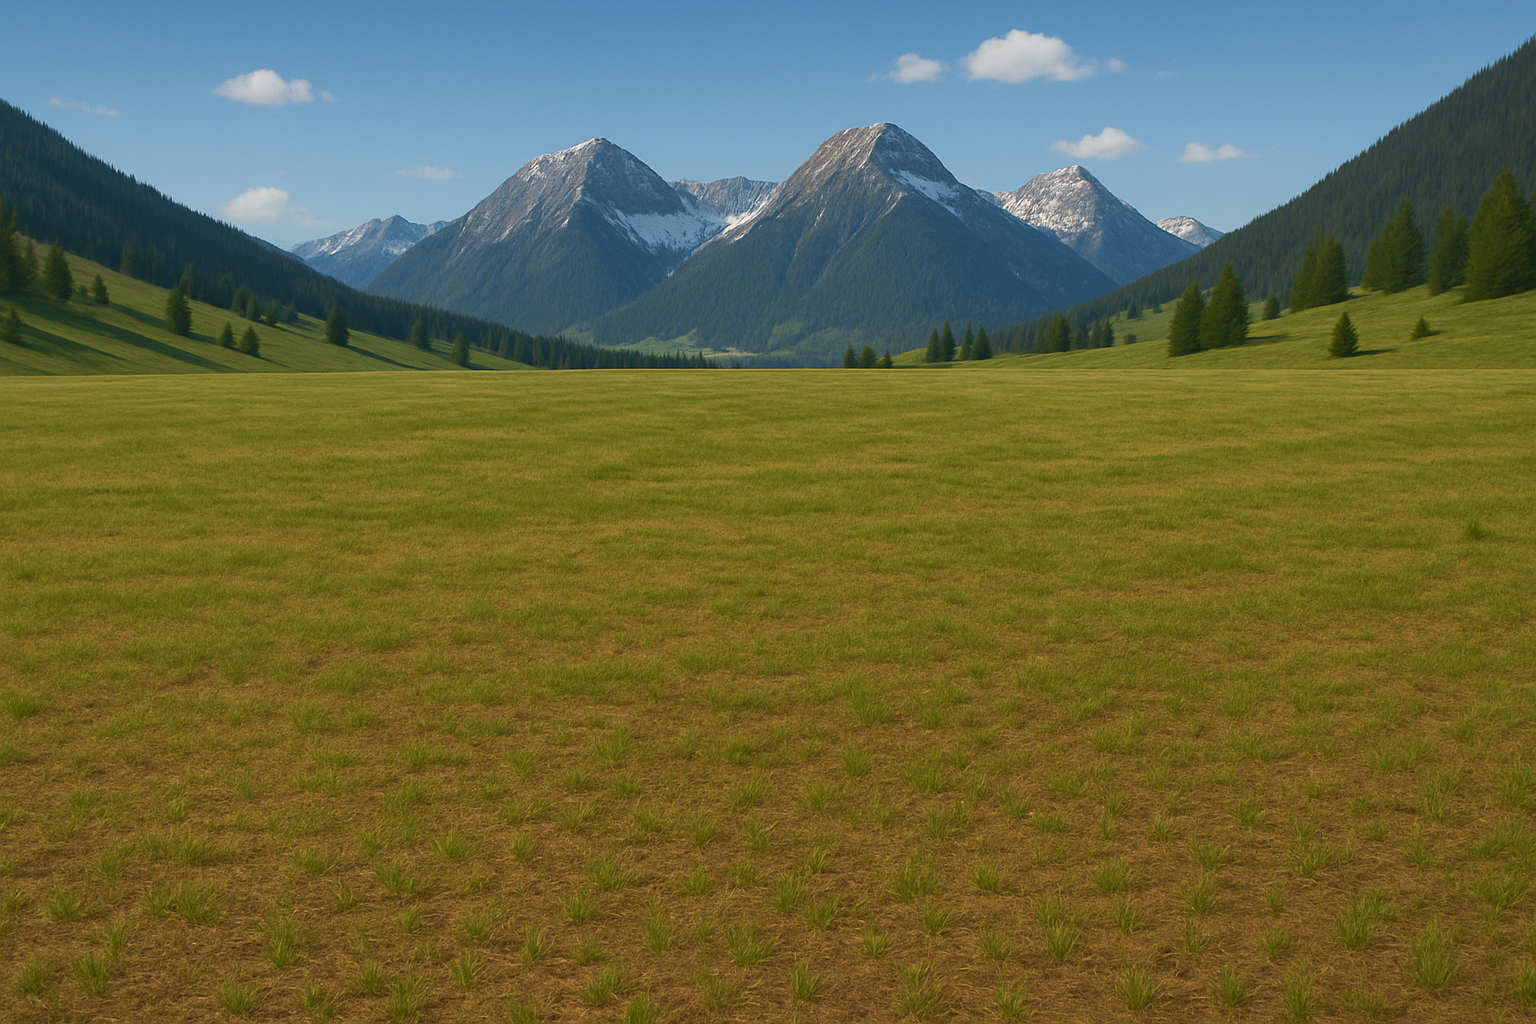
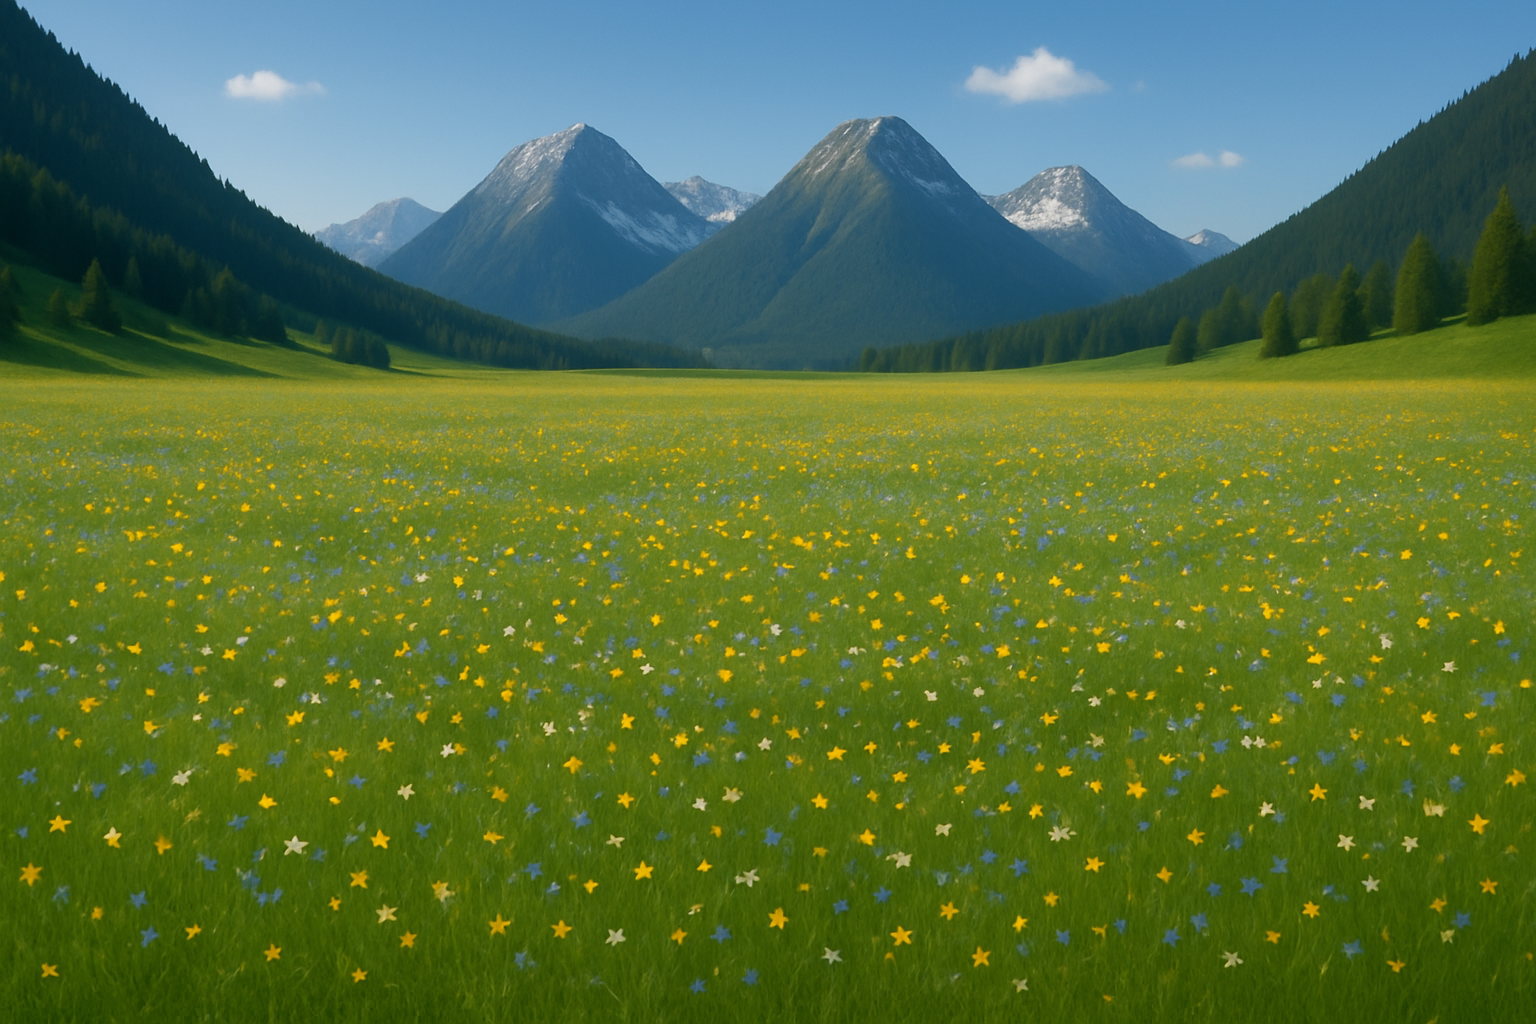
Добавлены случайные размеры для цветов
- Каждый цветок теперь имеет уникальный размер (scale от 0.85 до 1.15)
- Размеры генерируются случайно при посадке
- Визуальное разнообразие в саду без сильных отличий

🤖 Generated with [Claude Code](https://claude.com/claude-code)

diff --git a/src/components/FlowerControls.jsx b/src/components/FlowerControls.jsx
@@ -34,6 +34,7 @@ function FlowerControls({ onAddFlower, onRemoveFlower, onRemoveAllFlowers, exist
       flower: getRandomElement(flowers),
       animation: getRandomElement(animations),
       sway: getRandomElement(swayTypes),
+      scale: 0.85 + Math.random() * 0.3, // Размер от 0.85 до 1.15
       userName: name,
       plantDate: new Date().toISOString()
     }

diff --git a/src/components/GardenField.jsx b/src/components/GardenField.jsx
@@ -96,6 +96,7 @@ function GardenField({ flowers, onRemoveFlower, showcaseFlower, onCloseShowcase 
               className={`flower-image sway-${flower.sway}`}
               src={`${import.meta.env.BASE_URL}${flower.flower}`}
               alt="Цветок"
+              style={{ transform: `scale(${flower.scale || 1})` }}
             />
           </div>
         )
